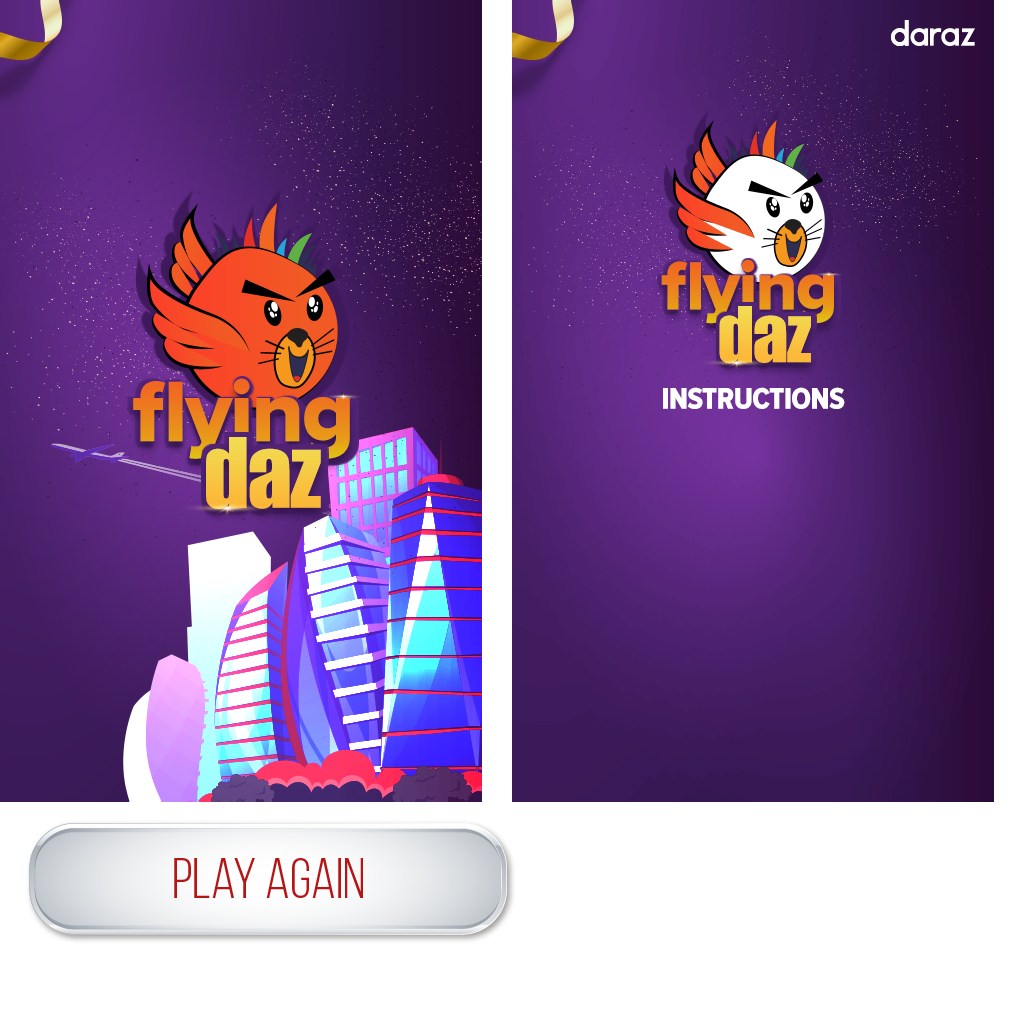
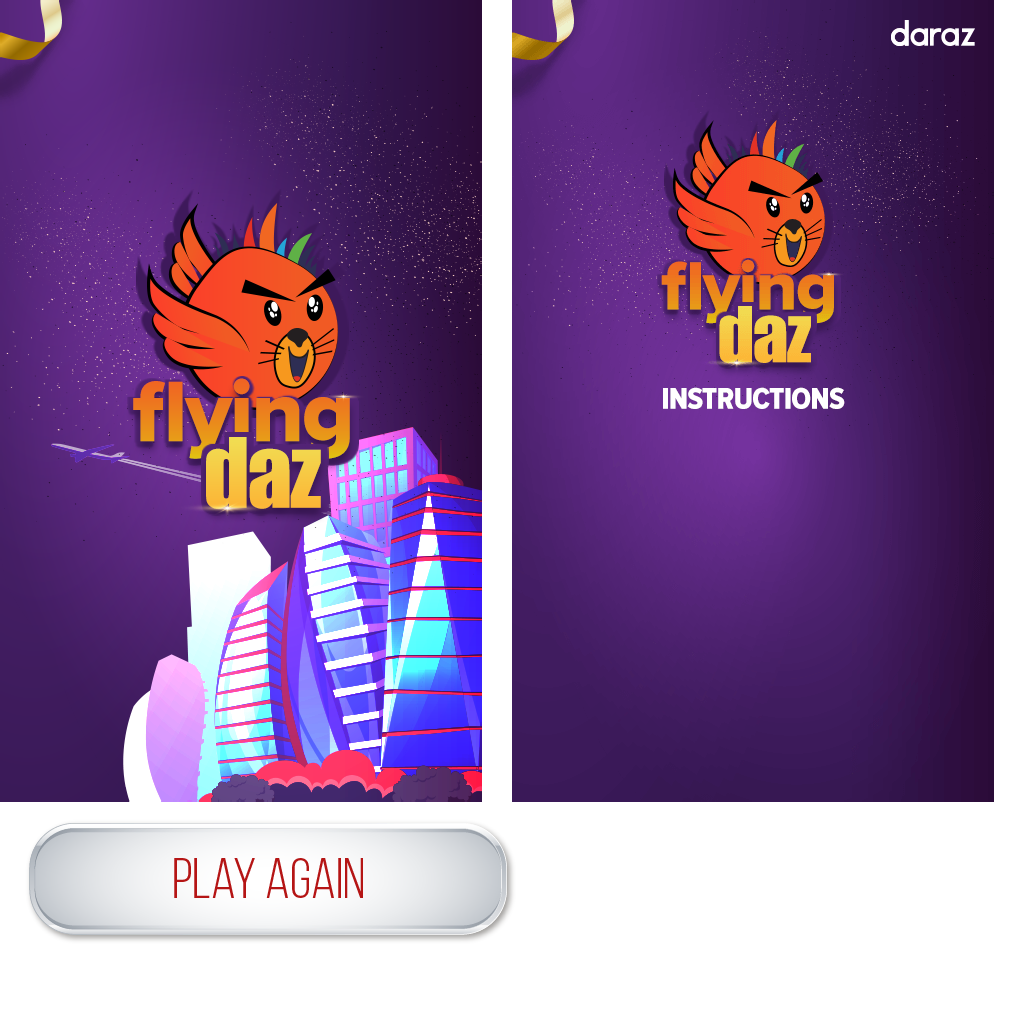
final2

Changed region(s): [[0.6875, 0.125, 0.8125, 0.2812]]

diff --git a/flying-daz/data.js b/flying-daz/data.js
@@ -1,1 +1,1 @@
-{"project":["Flying Daz","Menu",[[0,false,true,true,true,true,true,true,true,false],[1,false,true,true,true,false,false,false,false,false],[3,true,false,false,false,false,false,false,false,false],[4,false,true,true,true,true,true,true,true,true],[5,false,true,true,true,true,true,true,true,false],[7,true,false,false,false,false,false,false,false,false],[8,true,false,false,false,false,false,false,false,false],[9,true,false,false,false,false,false,false,false,false],[10,false,true,true,true,false,false,false,false,false]],[["Sprite",0,false,[],0,0,null,[["Default",5,false,1,0,false,1393132005821332,[["images/shared-0-sheet1.png",579598,513,1,480,800,1,0.5,0.5,[],[-0.5,-0.5,0,-0.5,0.4979166666666667,-0.5,0.4979166666666667,0,0.4979166666666667,0.49875,0,0.49875,-0.5,0.49875,-0.5,0],0]]]],[],false,true,4964123340204649,[],null],["Sprite2",0,false,[],0,0,null,[["Default",5,false,1,0,false,5423385207864809,[["images/shared-0-sheet0.png",493578,897,961,108,61,1,0.5,0.508197,[],[-0.4444444,-0.40983630000000004,0,-0.4754101,0.44444399999999995,-0.40983630000000004,0.48148100000000005,-0.01639400000000002,0.453704,0.409836,0,0.47541,-0.4537037,0.409836,-0.4814815,-0.01639400000000002],0]]]],[],false,false,561258163338029,[],null],["Button2",1,false,[],0,0,null,null,[],false,false,2574843507174612,[],null],["Sprite3",0,false,[],0,0,null,[["Default",5,false,1,0,false,8356031828295757,[["images/shared-0-sheet0.png",493578,679,803,115,111,1,0.504348,0.504505,[],[-0.191305,-0.18018099999999998,-0.008696000000000037,-0.38738799999999995,0.017390999999999934,-0.009009999999999962,0.017390999999999934,-0.009009999999999962,0.37391299999999994,0.36936900000000006,-0.008696000000000037,0.495495,-0.38260900000000003,0.36936900000000006,-0.06956500000000004,-0.009009999999999962],0]]]],[],false,false,9533404973379886,[],null],["Sprite4",0,false,[],0,0,null,[["Default",5,false,1,0,false,6430424900520584,[["images/shared-0-sheet0.png",493578,1,1,480,800,1,0.5,0.500978,[],[-0.5,-0.500978,0,-0.500978,0.4979166666666667,-0.500978,0.4979166666666667,-0.0009780000000000344,0.4979166666666667,0.497772,0,0.497772,-0.5,0.497772,-0.5,-0.0009780000000000344],0]]]],[],false,false,576234191087211,[],null],["Sprite5",0,false,[],1,0,null,[["Default",10,false,1,0,false,5552198826423713,[["images/shared-0-sheet0.png",493578,796,803,103,72,1,0.5,0.5,[],[-0.21383512244897962,-0.3616071428571428,0.08928571428571452,-0.3511904761904762,0.2699575714285716,-0.04910714285714307,0.2728086530612246,0.27157738095238126,0.1195978979591843,0.48214252380952394,-0.08418367346938738,0.49627976190476186,-0.3568427959183674,0.11383895238095276,-0.346938775510204,-0.17485119047619024],0],["images/shared-0-sheet0.png",493578,901,803,103,72,1,0.5,0.5,[],[-0.16791675510204096,-0.19791666666666674,0.09948979591836726,-0.4107142857142857,0.25720246938775515,-0.2723214285714285,0.31362497959183666,0.141369047619048,0.25480197959183737,0.37797585714285675,0.04336734693877475,0.5,-0.19867953061224491,0.34821395238095243,-0.34183673469387754,-0.01860119047619041],0],["images/shared-0-sheet0.png",493578,641,939,103,72,1,0.5,0.5,[],[-0.12454940816326543,-0.3132440476190475,0.03826530612244905,-0.40327380952380953,0.2674065510204082,-0.1830357142857144,0.2753596734693883,0.30877976190476253,0.13235300000000083,0.4784222857142858,-0.19185902516346326,0.4107142857142859,-0.37484996938775506,0.1450896190476193,-0.2702581326530612,-0.07068452380952356],0]]]],[["Platform",2,1593079543931459]],false,false,8880592809369787,[],null],["Mouse",3,false,[],0,0,null,null,[],false,false,4336291366746725,[],null,[]],["Sprite6",0,false,[6617839752655299],0,0,null,[["Default",5,false,1,0,false,1423263038755727,[["images/shared-0-sheet2.png",116318,543,1,104,640,1,0.508772,0.501538,[],[-0.508772,-0.501538,0.491228,-0.501538,0.44509146153846146,0.49787275,-0.017544000000000004,0.49846199999999996,-0.4571103923076923,0.492842625],0]]]],[],false,false,7213654666255091,[],null],["Sprite7",0,false,[],0,0,null,[["Default",5,false,1,0,false,2610034895066063,[["images/shared-0-sheet2.png",116318,649,1,104,640,1,0.5,0.501538,[],[-0.47081045384615383,-0.501538,0.45879092307692304,-0.501538,0.5,0.49846199999999996,-0.5,0.49621424999999997],0]]]],[],false,false,6358373644877836,[],null],["TiledBackground",4,false,[],0,0,["images/tiledbackground-sheet0.png",4223,0,0,0,337,17],null,[],false,false,8862384049867816,[],null],["TiledBackground2",4,false,[],0,0,["images/tiledbackground2-sheet0.png",4223,0,0,0,337,17],null,[],false,false,2397778750218094,[],null],["TiledBackground3",4,false,[],0,0,["images/tiledbackground3-sheet0.png",192,0,0,0,56,28],null,[],false,false,8923451967422283,[],null],["TiledBackground4",4,false,[],0,0,["images/tiledbackground4-sheet0.png",430,0,0,0,41,19],null,[],false,false,2934423813765071,[],null],["Text",5,false,[],0,0,null,null,[],false,false,5606101963679141,[],null],["Sprite8",0,false,[],0,0,null,[["Default",5,false,1,0,false,7712839185583907,[["images/shared-0-sheet2.png",116318,257,769,250,250,1,0.5,0.5,[],[],0]]]],[],false,false,5867399459174119,[],null],["Sprite9",0,false,[],1,0,null,[["Default",5,false,1,0,false,632513710534152,[["images/shared-0-sheet0.png",493578,543,803,134,134,1,0.5,0.503311,[],[-0.36666699999999997,-0.344371,0,-0.49668847999999993,0.37222200000000005,-0.35099299999999994,0.488889,-0.006621999999999961,0.3337481492537311,0.3343999402985074,0.004664179104477584,0.44801426865671645,-0.349523328358209,0.305667328358209,-0.49444444,-0.006621999999999961],0]]]],[["DragDrop",6,559007665408358]],false,true,336497991114589,[],null],["Touch",7,false,[],0,0,null,null,[],false,false,812771115847554,[],null,[true]],["Browser",8,false,[],0,0,null,null,[],false,false,968786528415499,[],null,[]],["Sprite10",0,false,[],0,0,null,[["Animation 1",5,false,1,0,false,998012637433276,[["images/shared-0-sheet2.png",116318,755,513,256,256,1,0.5,0.5,[],[-0.03125,-0.03125,0,-0.046875,0.046875,-0.05078125,0.4296875,0,0.015625,0.015625,0,0.1328125,-0.14453125,0.140625,-0.4453125,0],0]]]],[],false,false,596976730625195,[],null],["AJAX",9,false,[],0,0,null,null,[],false,false,525835348000193,[],null,[]],["Sprite11",0,false,[],0,0,null,[["Animation 1",5,false,1,0,false,259953315795058,[["images/shared-0-sheet0.png",493578,513,1,480,800,1,0.5,0.5,[],[-0.5,-0.5,0,-0.5,0.49750000000000005,-0.5,0.49750000000000005,0,0.49750000000000005,0.498,0,0.498,-0.5,0.498,-0.5,0],0]]]],[],false,false,387558426248170,[],null],["NameInput",10,false,[],0,0,null,null,[],false,false,889300060393533,[],null],["EmailInput",10,false,[],0,0,null,null,[],false,false,800542948052933,[],null],["PhoneInput",10,false,[],0,0,null,null,[],false,false,139598997962273,[],null],["NameText",5,false,[],0,0,null,null,[],false,false,335254482292807,[],null],["EmailText",5,false,[],0,0,null,null,[],false,false,346951033053218,[],null],["Text2",5,false,[],0,0,null,null,[],false,false,646911176194777,[],null],["Sprite12",0,false,[],0,0,null,[["Animation 1",5,false,1,0,false,591142330811460,[["images/shared-0-sheet0.png",493578,1,803,540,158,1,0.5,0.5,[],[-0.4073182779369861,-0.34398155758915255,-0.006944444444444586,-0.34968354430379744,0.40504037360896816,-0.33736780097539587,0.4352220956719819,0.05537974683544311,0.3859058156639268,0.3355084905717818,-0.01892921146953408,0.32007157165385014,-0.4054701596574163,0.3288947339580254,-0.45370370370370366,-0.06329113924050628],0]]]],[],false,false,367115732379633,[],null],["Confirmation",5,false,[],0,0,null,null,[],false,false,968940184656449,[],null],["Sprite13",0,false,[],0,0,null,[["Animation 1",5,false,1,0,false,904992826225042,[["images/shared-0-sheet1.png",579598,1,803,540,158,1,0.5,0.5,[],[-0.40880451457374534,-0.36416139240506323,0,-0.375,0.3883478522901602,-0.37739319620253164,0.4394039009423626,0,0.4037776682007451,0.31787974683544307,-0.004629629629629595,0.3491297468354432,-0.3968469208853824,0.3343354430379749,-0.4535598838483454,0.04746835443038],0]]]],[],false,false,505255774339353,[],null],["Sprite14",0,false,[],0,0,null,[["Animation 1",5,false,1,0,false,405608823074264,[["images/shared-0-sheet2.png",116318,1,513,540,158,1,0.5,0.5,[],[-0.41439636752136755,-0.3904449272624221,-0.009259259259259245,-0.38964985200579383,0.40495904558404594,-0.37676333522262107,0.44444444444444464,0,0.3865295584045586,0.3394499023868003,-0.02083333333333337,0.3369623401977454,-0.4029113247863248,0.33641129794067637,-0.46456552706552706,-0.015822784810126556],0]]]],[],false,false,547625119326240,[],null],["Sprite15",0,false,[],0,0,null,[["Animation 1",5,false,1,0,false,518076908544604,[["images/shared-0-sheet1.png",579598,1,1,480,800,1,0.5,0.5,[],[-0.5,-0.5,0,-0.5,0.4979166666666667,-0.5,0.4979166666666667,0,0.4979166666666667,0.49875,0,0.49875,-0.5,0.49875,-0.5,0],0]]]],[],false,false,921497973235513,[],null],["Sprite16",0,false,[],0,0,null,[["Animation 1",5,false,1,0,false,781584850527997,[["images/shared-0-sheet0.png",493578,769,916,242,43,1,0.5,0.5,[],[-0.49173553719008267,-0.4534883720930233,0,-0.4069767441860465,0.487603305785124,-0.4534883720930233,0.49586776859504134,0,0.487603305785124,0.43023255813953487,0,0.4534883720930233,-0.49586776859504134,0.4534883720930233,-0.5,0],0]]]],[],false,true,642240991751007,[],null],["Instructions",5,false,[],0,0,null,null,[],false,true,807218672933255,[],null],["Display",5,false,[],0,0,null,null,[],false,false,855406720276929,[],null],["Button",1,false,[],0,0,null,null,[],false,false,792601355615941,[],null]],[],[["Menu",480,800,false,"Event sheet 1",813435304774142,[["Layer 0",0,4928235318697103,true,[255,255,255],false,1,1,1,false,false,1,0,0,[[[240,401,0,478,800,0,0,1,0.5,0.5,0,0,[]],0,0,[],[],[true,"Default",0,true]],[[244,667,0,134,134,0,0,1,0.5,0.503311,0,0,[]],15,11,[],[[0,true]],[true,"Default",0,true]],[[248,554,0,242,43,0,0,1,0.5,0.5,0,0,[]],32,2,[],[],[true,"Animation 1",0,true]],[[61,402,0,372,116,0,0,1,0,0,0,0,[]],33,14,[],[],["1. Make Daz jump by tapping on the screen.\n2. Fly through the pillars and get the highest score.\n3. Be the 1st scorer and win a Samsung 40inch TV.\n4. Be the 2nd scorer and win a Redmi Note 6.",false,"Arial",12,0,false,false,[1,1,1],0,1,0,true,0]]],[]]],[],[]],["Game",480,800,false,"Event sheet 2",7054034641972203,[["Layer 0",0,360173619558835,true,[255,255,255],false,1,1,1,false,false,1,0,0,[[[239.5,400,0,488,797,0,0,1,0.5,0.500978,0,0,[]],4,3,[],[],[true,"Default",0,true]],[[112,340,0,83.56229072527051,59.21386573416339,0,0,1,0.5,0.5,0,0,[]],5,4,[],[[0,1500,1500,650,1500,1000,false,0,true,true]],[true,"Default",0,true]],[[-91,765,0,639,32,0,0,1,0,0,0,0,[]],11,9,[],[],[true,0,0,0,1,1,0]],[[566.999938965,741.895385742,0,74,680,0,0,1,0.508772,0.501538,0,0,[]],7,6,[[0]],[],[true,"Default",0,true]],[[-107,1,0,727,17,0,0,1,0,0,0,0,[]],12,8,[],[],[true,0,0,0,1,1,0]],[[-59,10.750762939,0,73,477,0,0,1,0.5,0.501538,0,0,[]],8,7,[],[],[true,"Default",0,true]]],[]],["Layer 1",1,824997212790849,true,[255,255,255],true,1,1,1,false,false,1,0,0,[[[25,41,0,52,66,0,0,1,0,0,0,0,[]],13,10,[],[],["0",false,"Arial",25.799999999999997,0,false,false,[1,1,0.8],0,0,0,true,0]]],[]]],[],[]],["Final",480,800,false,"Event sheet 3",620830751206250,[["Layer 0",0,395103375760716,true,[255,255,255],false,1,1,1,false,false,1,0,0,[[[240.5,399.5,0,488,801,0,0,1,0.5,0.5,0,0,[]],20,16,[],[],[true,"Animation 1",0,true]],[[157,122,0,257,32,0,0,1,0,0,0,0,[]],21,17,[],[],["","","",true,true,false,false,0,true,""]],[[157,178,0,257,32,0,0,1,0,0,0,0,[]],22,18,[],[],["","","",true,true,false,false,0,true,""]],[[157,232,0,257,32,0,0,1,0,0,0,0,[]],23,19,[],[],["","","",true,true,false,false,0,true,""]],[[74,127,0,61,30,0,0,1,0,0,0,0,[]],24,20,[],[],["NAME",false,"Arial",15,0,false,false,[1,1,1],0,1,0,true,0]],[[77,182,0,68,30,0,0,1,0,0,0,0,[]],25,21,[],[],["EMAIL",false,"Arial",15,0,false,false,[1,1,1],0,1,0,true,0]],[[66,236,0,75,30,0,0,1,0,0,0,0,[]],26,22,[],[],["PHONE",false,"Arial",15,0,false,false,[1,1,1],0,1,0,true,0]],[[277,874,0,213,57,0,0,1,0.5,0.5,0,0,[]],27,23,[],[],[false,"Animation 1",0,true]],[[105,324,0,282,83,0,0,1,0,0,0,0,[]],28,24,[],[],["Score has been Added!!\nThank you for your Participation!\nStay Tuned with Daraz!\n",false,"Arial",12,0,false,false,[1,1,1],1,1,0,false,0]],[[137,501,0,213,57,0,0,1,0.5,0.5,0,0,[]],29,25,[],[],[true,"Animation 1",0,true]],[[370,501,0,213,57,0,0,1,0.5,0.5,0,0,[]],30,26,[],[],[true,"Animation 1",0,true]],[[141,54,0,238,30,0,0,1,0,0,0,0,[]],34,28,[],[],["Submit Your Score",false,"Arial",18.7,0,false,false,[1,1,1],0,0,0,true,0]]],[]]],[],[]],["Splash",480,800,false,"Event sheet 4",334263116829157,[["Layer 0",0,426875695464246,true,[255,255,255],false,1,1,1,false,false,1,0,0,[[[241,400,0,480,800,0,0,1,0.5,0.5,0,0,[]],31,27,[],[],[true,"Animation 1",0,true]]],[]]],[],[]]],[["Event sheet 1",[[0,null,false,null,9443870342977488,[[16,11,null,1,false,false,false,7831443225202787,null,[[4,15]]]],[[-1,12,null,7052091377467977,null,[[6,"Game"]]],[-1,13,null,199173049232889,null,[[11,"score"],[7,[3,[1,1]]]]]]]]],["Event sheet 2",[[1,"score",0,-1,false,false,5445505578776546,false],[1,"SECONDSPERTICK",0,1,false,true,4168613484299564,false],[1,"s",1,"",false,false,103965146235660,false],[1,"web_app_url",1,"https://script.google.com/macros/s/AKfycbz928psWAZfOM-7AKDqhtY8HTPeIC8d6s7RaVA116KtJP3ytqF1/exec",false,false,739007772900223,false],[0,null,false,null,9738095022888128,[[16,14,null,1,false,false,false,8826641917803341,null]],[[5,15,"Platform",2840984979323257,null,[[0,[5,[20,5,16,false,null],[1,850]]]]],[5,17,null,2948151137742414,null,[[3,1]]],[5,18,null,5093259802344395,null,[[0,[1,320]]]]]],[0,null,false,null,1202615859203067,[[5,19,null,0,false,false,true,6241361961390549,null,[[4,7]]]],[[-1,12,null,405722869933906,null,[[6,"Final"]]]]],[0,null,false,null,1243265082953658,[[5,19,null,0,false,false,true,6680394977637079,null,[[4,8]]]],[[-1,12,null,581731913117290,null,[[6,"Final"]]]]],[0,null,false,null,9391386778907876,[[5,19,null,0,false,false,true,2125266085438146,null,[[4,11]]]],[[-1,12,null,283323623451258,null,[[6,"Final"]]]]],[0,null,false,null,8252958596625004,[[5,20,null,0,false,false,false,1346436896633493,null]],[[-1,12,null,198607994406590,null,[[6,"Final"]]]]],[0,null,false,null,9154889208580540,[[11,21,null,0,false,false,false,4741263242219376,null,[[8,3],[0,[3,[1,100]]]]]],[[11,22,null,1279449584451248,null,[[0,[1,0]]]]]],[0,null,false,null,8225295766461671,[[5,19,null,0,false,false,true,1658206846094863,null,[[4,12]]]],[[-1,12,null,152483321620022,null,[[6,"Final"]]]]],[0,null,false,null,6712032144356998,[[-1,23,null,0,false,false,false,1281422020036334,null]],[[12,22,null,8955708555932225,null,[[0,[5,[20,12,24,false,null],[1,5]]]]],[11,22,null,6515409483825707,null,[[0,[5,[20,11,24,false,null],[1,5]]]]],[8,25,null,3067140511304611,null,[[0,[5,[20,8,26,false,null],[1,5]]]]],[7,25,null,644147347656629,null,[[0,[5,[20,7,26,false,null],[1,5]]]]]]],[0,null,false,null,9900658006043172,[[12,21,null,0,false,false,false,9483081392905172,null,[[8,3],[0,[3,[1,100]]]]]],[[12,22,null,3468501258433082,null,[[0,[1,0]]]]]],[0,null,false,null,4487159994830935,[[-1,27,null,0,false,false,false,264969624309235,null,[[0,[23,"SECONDSPERTICK"]]]]],[[-1,28,null,336797798963120,null,[[4,8],[5,[1,0]],[0,[1,500]],[0,[19,29,[[1,50],[3,[1,150]]]]]]],[-1,28,null,446576431006347,null,[[4,7],[5,[1,0]],[0,[1,500]],[0,[4,[20,8,16,false,null],[1,750]]]]],[7,30,null,8620893255087995,null,[[10,0],[3,0]]]]],[0,null,false,null,3501621113364987,[[5,31,null,0,false,false,false,973402086689707,null,[[0,[1,1]],[0,[1,360]]]]],[[5,18,null,1321872969593035,null,[[0,[4,[20,5,32,false,null],[1,1]]]]]]],[0,null,false,null,2219961052850856,[[-1,33,null,1,false,false,false,9300582250180858,null]],[[13,34,null,2180209574785663,null,[[7,[1,0]]]]]],[0,null,false,null,3034903989539794,[[7,20,null,0,false,false,false,8329733398121777,null]],[[7,35,null,9126346962036340,null]]],[0,null,false,null,8210638893697663,[[7,36,null,1,false,false,false,5113379428055256,null]],[[-1,37,null,5716393016293131,null,[[11,"score"],[7,[1,1]]]],[13,34,null,8822476034886771,null,[[7,[23,"score"]]]],[7,30,null,2683831327960307,null,[[10,0],[3,1]]]]],[0,null,true,null,292316990547488,[[5,19,null,0,false,false,true,309956573817900,null,[[4,7]]],[5,19,null,0,false,false,true,906194607185260,null,[[4,8]]],[5,19,null,0,false,false,true,544866959185864,null,[[4,11]]],[5,19,null,0,false,false,true,484829367294420,null,[[4,12]]],[5,20,null,0,false,false,false,309688790753529,null]],[]]]],["Event sheet 3",[[0,null,false,null,953514335274900,[[16,11,null,1,false,false,false,675258870164215,null,[[4,27]]]],[[-1,13,null,654477517929274,null,[[11,"s"],[7,[10,[10,[23,"web_app_url"],[2,"?name="]],[19,38,[[20,21,39,true,null]]]]]]],[-1,13,null,376145357999251,null,[[11,"s"],[7,[10,[10,[23,"s"],[2,"&score="]],[23,"score"]]]]],[-1,13,null,996337523594330,null,[[11,"s"],[7,[10,[10,[23,"s"],[2,"&email="]],[20,22,39,true,null]]]]],[-1,13,null,411130622235495,null,[[11,"s"],[7,[10,[10,[23,"s"],[2,"&phone="]],[20,23,39,true,null]]]]],[19,40,null,103897013309333,null,[[1,[2,"senddata"]],[1,[23,"s"]],[1,[2,""]],[1,[2,"GET"]]]],[28,41,null,401195694014010,null,[[3,1]]],[27,35,null,866812808831417,null]]],[0,null,false,null,230036816865590,[[16,11,null,1,false,false,false,742385287071374,null,[[4,30]]]],[[17,42,null,754398245008242,null,[[1,[2,"https://www.daraz.com.bd/wow/i/bd/landingpage/exciting-offers-daily?hybrid=1"]],[3,0]]]]],[0,null,false,null,999045428445811,[[16,11,null,1,false,false,false,752436486698801,null,[[4,29]]]],[[-1,12,null,306198402426133,null,[[6,"Game"]]],[-1,13,null,348969924502970,null,[[11,"score"],[7,[3,[1,1]]]]]]],[0,null,false,null,112599420946176,[[23,43,null,1,false,false,false,860634210077745,null]],[[27,44,null,573393313618559,null,[[3,1]]],[27,45,null,956400478037635,null,[[0,[1,254]],[0,[1,598]]]]]]]],["Event sheet 4",[[0,null,false,null,301873428723936,[[-1,33,null,1,false,false,false,921391437527137,null]],[[-1,46,null,300903338090120,null,[[0,[1,0.5]]]],[-1,12,null,660406916845328,null,[[6,"Menu"]]]]]]]],[],"media/",false,480,800,4,true,true,true,"1.0.0.0",true,true,1,0,30,false,true,1,true,false,[],"icons/",[],true,"u8se8qxh4gob","fonts/",[],"high-performance"]}
+{"project":["Flying Daz","Menu",[[0,false,true,true,true,true,true,true,true,false],[1,false,true,true,true,false,false,false,false,false],[3,true,false,false,false,false,false,false,false,false],[4,false,true,true,true,true,true,true,true,true],[5,false,true,true,true,true,true,true,true,false],[7,true,false,false,false,false,false,false,false,false],[8,true,false,false,false,false,false,false,false,false],[9,true,false,false,false,false,false,false,false,false],[10,false,true,true,true,false,false,false,false,false]],[["Sprite",0,false,[],0,0,null,[["Default",5,false,1,0,false,1393132005821332,[["images/shared-0-sheet1.png",584793,513,1,480,800,1,0.5,0.5,[],[-0.5,-0.5,0,-0.5,0.4979166666666667,-0.5,0.4979166666666667,0,0.4979166666666667,0.49875,0,0.49875,-0.5,0.49875,-0.5,0],0]]]],[],false,true,4964123340204649,[],null],["Sprite2",0,false,[],0,0,null,[["Default",5,false,1,0,false,5423385207864809,[["images/shared-0-sheet0.png",493578,897,961,108,61,1,0.5,0.508197,[],[-0.4444444,-0.40983630000000004,0,-0.4754101,0.44444399999999995,-0.40983630000000004,0.48148100000000005,-0.01639400000000002,0.453704,0.409836,0,0.47541,-0.4537037,0.409836,-0.4814815,-0.01639400000000002],0]]]],[],false,false,561258163338029,[],null],["Button2",1,false,[],0,0,null,null,[],false,false,2574843507174612,[],null],["Sprite3",0,false,[],0,0,null,[["Default",5,false,1,0,false,8356031828295757,[["images/shared-0-sheet0.png",493578,679,803,115,111,1,0.504348,0.504505,[],[-0.191305,-0.18018099999999998,-0.008696000000000037,-0.38738799999999995,0.017390999999999934,-0.009009999999999962,0.017390999999999934,-0.009009999999999962,0.37391299999999994,0.36936900000000006,-0.008696000000000037,0.495495,-0.38260900000000003,0.36936900000000006,-0.06956500000000004,-0.009009999999999962],0]]]],[],false,false,9533404973379886,[],null],["Sprite4",0,false,[],0,0,null,[["Default",5,false,1,0,false,6430424900520584,[["images/shared-0-sheet0.png",493578,1,1,480,800,1,0.5,0.500978,[],[-0.5,-0.500978,0,-0.500978,0.4979166666666667,-0.500978,0.4979166666666667,-0.0009780000000000344,0.4979166666666667,0.497772,0,0.497772,-0.5,0.497772,-0.5,-0.0009780000000000344],0]]]],[],false,false,576234191087211,[],null],["Sprite5",0,false,[],1,0,null,[["Default",10,false,1,0,false,5552198826423713,[["images/shared-0-sheet0.png",493578,796,803,103,72,1,0.5,0.5,[],[-0.21383512244897962,-0.3616071428571428,0.08928571428571452,-0.3511904761904762,0.2699575714285716,-0.04910714285714307,0.2728086530612246,0.27157738095238126,0.1195978979591843,0.48214252380952394,-0.08418367346938738,0.49627976190476186,-0.3568427959183674,0.11383895238095276,-0.346938775510204,-0.17485119047619024],0],["images/shared-0-sheet0.png",493578,901,803,103,72,1,0.5,0.5,[],[-0.16791675510204096,-0.19791666666666674,0.09948979591836726,-0.4107142857142857,0.25720246938775515,-0.2723214285714285,0.31362497959183666,0.141369047619048,0.25480197959183737,0.37797585714285675,0.04336734693877475,0.5,-0.19867953061224491,0.34821395238095243,-0.34183673469387754,-0.01860119047619041],0],["images/shared-0-sheet0.png",493578,641,939,103,72,1,0.5,0.5,[],[-0.12454940816326543,-0.3132440476190475,0.03826530612244905,-0.40327380952380953,0.2674065510204082,-0.1830357142857144,0.2753596734693883,0.30877976190476253,0.13235300000000083,0.4784222857142858,-0.19185902516346326,0.4107142857142859,-0.37484996938775506,0.1450896190476193,-0.2702581326530612,-0.07068452380952356],0]]]],[["Platform",2,1593079543931459]],false,false,8880592809369787,[],null],["Mouse",3,false,[],0,0,null,null,[],false,false,4336291366746725,[],null,[]],["Sprite6",0,false,[6617839752655299],0,0,null,[["Default",5,false,1,0,false,1423263038755727,[["images/shared-0-sheet2.png",116318,543,1,104,640,1,0.508772,0.501538,[],[-0.508772,-0.501538,0.491228,-0.501538,0.44509146153846146,0.49787275,-0.017544000000000004,0.49846199999999996,-0.4571103923076923,0.492842625],0]]]],[],false,false,7213654666255091,[],null],["Sprite7",0,false,[],0,0,null,[["Default",5,false,1,0,false,2610034895066063,[["images/shared-0-sheet2.png",116318,649,1,104,640,1,0.5,0.501538,[],[-0.47081045384615383,-0.501538,0.45879092307692304,-0.501538,0.5,0.49846199999999996,-0.5,0.49621424999999997],0]]]],[],false,false,6358373644877836,[],null],["TiledBackground",4,false,[],0,0,["images/tiledbackground-sheet0.png",4223,0,0,0,337,17],null,[],false,false,8862384049867816,[],null],["TiledBackground2",4,false,[],0,0,["images/tiledbackground2-sheet0.png",4223,0,0,0,337,17],null,[],false,false,2397778750218094,[],null],["TiledBackground3",4,false,[],0,0,["images/tiledbackground3-sheet0.png",192,0,0,0,56,28],null,[],false,false,8923451967422283,[],null],["TiledBackground4",4,false,[],0,0,["images/tiledbackground4-sheet0.png",430,0,0,0,41,19],null,[],false,false,2934423813765071,[],null],["Text",5,false,[],0,0,null,null,[],false,false,5606101963679141,[],null],["Sprite8",0,false,[],0,0,null,[["Default",5,false,1,0,false,7712839185583907,[["images/shared-0-sheet2.png",116318,257,769,250,250,1,0.5,0.5,[],[],0]]]],[],false,false,5867399459174119,[],null],["Sprite9",0,false,[],1,0,null,[["Default",5,false,1,0,false,632513710534152,[["images/shared-0-sheet0.png",493578,543,803,134,134,1,0.5,0.503311,[],[-0.36666699999999997,-0.344371,0,-0.49668847999999993,0.37222200000000005,-0.35099299999999994,0.488889,-0.006621999999999961,0.3337481492537311,0.3343999402985074,0.004664179104477584,0.44801426865671645,-0.349523328358209,0.305667328358209,-0.49444444,-0.006621999999999961],0]]]],[["DragDrop",6,559007665408358]],false,true,336497991114589,[],null],["Touch",7,false,[],0,0,null,null,[],false,false,812771115847554,[],null,[true]],["Browser",8,false,[],0,0,null,null,[],false,false,968786528415499,[],null,[]],["Sprite10",0,false,[],0,0,null,[["Animation 1",5,false,1,0,false,998012637433276,[["images/shared-0-sheet2.png",116318,755,513,256,256,1,0.5,0.5,[],[-0.03125,-0.03125,0,-0.046875,0.046875,-0.05078125,0.4296875,0,0.015625,0.015625,0,0.1328125,-0.14453125,0.140625,-0.4453125,0],0]]]],[],false,false,596976730625195,[],null],["AJAX",9,false,[],0,0,null,null,[],false,false,525835348000193,[],null,[]],["Sprite11",0,false,[],0,0,null,[["Animation 1",5,false,1,0,false,259953315795058,[["images/shared-0-sheet0.png",493578,513,1,480,800,1,0.5,0.5,[],[-0.5,-0.5,0,-0.5,0.49750000000000005,-0.5,0.49750000000000005,0,0.49750000000000005,0.498,0,0.498,-0.5,0.498,-0.5,0],0]]]],[],false,false,387558426248170,[],null],["NameInput",10,false,[],0,0,null,null,[],false,false,889300060393533,[],null],["EmailInput",10,false,[],0,0,null,null,[],false,false,800542948052933,[],null],["PhoneInput",10,false,[],0,0,null,null,[],false,false,139598997962273,[],null],["NameText",5,false,[],0,0,null,null,[],false,false,335254482292807,[],null],["EmailText",5,false,[],0,0,null,null,[],false,false,346951033053218,[],null],["Text2",5,false,[],0,0,null,null,[],false,false,646911176194777,[],null],["Sprite12",0,false,[],0,0,null,[["Animation 1",5,false,1,0,false,591142330811460,[["images/shared-0-sheet0.png",493578,1,803,540,158,1,0.5,0.5,[],[-0.4073182779369861,-0.34398155758915255,-0.006944444444444586,-0.34968354430379744,0.40504037360896816,-0.33736780097539587,0.4352220956719819,0.05537974683544311,0.3859058156639268,0.3355084905717818,-0.01892921146953408,0.32007157165385014,-0.4054701596574163,0.3288947339580254,-0.45370370370370366,-0.06329113924050628],0]]]],[],false,false,367115732379633,[],null],["Confirmation",5,false,[],0,0,null,null,[],false,false,968940184656449,[],null],["Sprite13",0,false,[],0,0,null,[["Animation 1",5,false,1,0,false,904992826225042,[["images/shared-0-sheet1.png",584793,1,803,540,158,1,0.5,0.5,[],[-0.40880451457374534,-0.36416139240506323,0,-0.375,0.3883478522901602,-0.37739319620253164,0.4394039009423626,0,0.4037776682007451,0.31787974683544307,-0.004629629629629595,0.3491297468354432,-0.3968469208853824,0.3343354430379749,-0.4535598838483454,0.04746835443038],0]]]],[],false,false,505255774339353,[],null],["Sprite14",0,false,[],0,0,null,[["Animation 1",5,false,1,0,false,405608823074264,[["images/shared-0-sheet2.png",116318,1,513,540,158,1,0.5,0.5,[],[-0.41439636752136755,-0.3904449272624221,-0.009259259259259245,-0.38964985200579383,0.40495904558404594,-0.37676333522262107,0.44444444444444464,0,0.3865295584045586,0.3394499023868003,-0.02083333333333337,0.3369623401977454,-0.4029113247863248,0.33641129794067637,-0.46456552706552706,-0.015822784810126556],0]]]],[],false,false,547625119326240,[],null],["Sprite15",0,false,[],0,0,null,[["Animation 1",5,false,1,0,false,518076908544604,[["images/shared-0-sheet1.png",584793,1,1,480,800,1,0.5,0.5,[],[-0.5,-0.5,0,-0.5,0.4979166666666667,-0.5,0.4979166666666667,0,0.4979166666666667,0.49875,0,0.49875,-0.5,0.49875,-0.5,0],0]]]],[],false,false,921497973235513,[],null],["Sprite16",0,false,[],0,0,null,[["Animation 1",5,false,1,0,false,781584850527997,[["images/shared-0-sheet0.png",493578,769,916,242,43,1,0.5,0.5,[],[-0.49173553719008267,-0.4534883720930233,0,-0.4069767441860465,0.487603305785124,-0.4534883720930233,0.49586776859504134,0,0.487603305785124,0.43023255813953487,0,0.4534883720930233,-0.49586776859504134,0.4534883720930233,-0.5,0],0]]]],[],false,true,642240991751007,[],null],["Instructions",5,false,[],0,0,null,null,[],false,true,807218672933255,[],null],["Display",5,false,[],0,0,null,null,[],false,false,855406720276929,[],null]],[],[["Menu",480,800,false,"Event sheet 1",813435304774142,[["Layer 0",0,4928235318697103,true,[255,255,255],false,1,1,1,false,false,1,0,0,[[[240,401,0,478,800,0,0,1,0.5,0.5,0,0,[]],0,0,[],[],[true,"Default",0,true]],[[244,667,0,134,134,0,0,1,0.5,0.503311,0,0,[]],15,11,[],[[0,true]],[true,"Default",0,true]],[[248,554,0,242,43,0,0,1,0.5,0.5,0,0,[]],32,2,[],[],[true,"Animation 1",0,true]],[[61,402,0,372,116,0,0,1,0,0,0,0,[]],33,14,[],[],["1. Make Daz jump by tapping on the screen.\n2. Fly through the pillars and get the highest score.\n3. Be the 1st scorer and win a Samsung 40inch TV.\n4. Be the 2nd scorer and win a Redmi Note 6.",false,"Arial",12,0,false,false,[1,1,1],0,1,0,true,0]]],[]]],[],[]],["Game",480,800,false,"Event sheet 2",7054034641972203,[["Layer 0",0,360173619558835,true,[255,255,255],false,1,1,1,false,false,1,0,0,[[[239.5,400,0,488,797,0,0,1,0.5,0.500978,0,0,[]],4,3,[],[],[true,"Default",0,true]],[[112,340,0,83.56229072527051,59.21386573416339,0,0,1,0.5,0.5,0,0,[]],5,4,[],[[0,1500,1500,650,1500,1000,false,0,true,true]],[true,"Default",0,true]],[[-91,765,0,639,32,0,0,1,0,0,0,0,[]],11,9,[],[],[true,0,0,0,1,1,0]],[[566.999938965,741.895385742,0,74,680,0,0,1,0.508772,0.501538,0,0,[]],7,6,[[0]],[],[true,"Default",0,true]],[[-107,1,0,727,17,0,0,1,0,0,0,0,[]],12,8,[],[],[true,0,0,0,1,1,0]],[[-59,10.750762939,0,73,477,0,0,1,0.5,0.501538,0,0,[]],8,7,[],[],[true,"Default",0,true]],[[25,41,0,52,66,0,0,1,0,0,0,0,[]],13,10,[],[],["0",false,"Arial",25.799999999999997,0,false,false,[1,1,0.8],0,0,0,true,0]]],[]]],[],[]],["Final",480,800,false,"Event sheet 3",620830751206250,[["Layer 0",0,395103375760716,true,[255,255,255],false,1,1,1,false,false,1,0,0,[[[240.5,399.5,0,488,801,0,0,1,0.5,0.5,0,0,[]],20,16,[],[],[true,"Animation 1",0,true]],[[157,122,0,257,32,0,0,1,0,0,0,0,[]],21,17,[],[],["","","",true,true,false,false,0,true,""]],[[157,178,0,257,32,0,0,1,0,0,0,0,[]],22,18,[],[],["","","",true,true,false,false,0,true,""]],[[157,232,0,257,32,0,0,1,0,0,0,0,[]],23,19,[],[],["","","",true,true,false,false,0,true,""]],[[74,127,0,61,30,0,0,1,0,0,0,0,[]],24,20,[],[],["NAME",false,"Arial",15,0,false,false,[1,1,1],0,1,0,true,0]],[[77,182,0,68,30,0,0,1,0,0,0,0,[]],25,21,[],[],["EMAIL",false,"Arial",15,0,false,false,[1,1,1],0,1,0,true,0]],[[66,236,0,75,30,0,0,1,0,0,0,0,[]],26,22,[],[],["PHONE",false,"Arial",15,0,false,false,[1,1,1],0,1,0,true,0]],[[259,628,0,213,57,0,0,1,0.5,0.5,0,0,[]],27,23,[],[],[false,"Animation 1",0,true]],[[105,324,0,282,83,0,0,1,0,0,0,0,[]],28,24,[],[],["Score has been Added!!\nThank you for your Participation!\nStay Tuned with Daraz!\n",false,"Arial",12,0,false,false,[1,1,1],1,1,0,false,0]],[[258,508,0,213,57,0,0,1,0.5,0.5,0,0,[]],29,25,[],[],[true,"Animation 1",0,true]],[[258,568,0,213,57,0,0,1,0.5,0.5,0,0,[]],30,26,[],[],[true,"Animation 1",0,true]],[[141,54,0,238,30,0,0,1,0,0,0,0,[]],34,28,[],[],["Submit Your Score",false,"Arial",18.7,0,false,false,[1,1,1],0,0,0,true,0]]],[]]],[],[]],["Splash",480,800,false,"Event sheet 4",334263116829157,[["Layer 0",0,426875695464246,true,[255,255,255],false,1,1,1,false,false,1,0,0,[[[241,400,0,480,800,0,0,1,0.5,0.5,0,0,[]],31,27,[],[],[true,"Animation 1",0,true]]],[]]],[],[]]],[["Event sheet 1",[[0,null,false,null,9443870342977488,[[16,11,null,1,false,false,false,7831443225202787,null,[[4,15]]]],[[-1,12,null,7052091377467977,null,[[6,"Game"]]],[-1,13,null,199173049232889,null,[[11,"score"],[7,[3,[1,1]]]]]]]]],["Event sheet 2",[[1,"score",0,-1,false,false,5445505578776546,false],[1,"SECONDSPERTICK",0,1,false,true,4168613484299564,false],[1,"s",1,"",false,false,103965146235660,false],[1,"web_app_url",1,"https://script.google.com/macros/s/AKfycbz928psWAZfOM-7AKDqhtY8HTPeIC8d6s7RaVA116KtJP3ytqF1/exec",false,false,739007772900223,false],[0,null,false,null,9738095022888128,[[16,14,null,1,false,false,false,8826641917803341,null]],[[5,15,"Platform",2840984979323257,null,[[0,[5,[20,5,16,false,null],[1,850]]]]],[5,17,null,2948151137742414,null,[[3,1]]],[5,18,null,5093259802344395,null,[[0,[1,320]]]]]],[0,null,false,null,1202615859203067,[[5,19,null,0,false,false,true,6241361961390549,null,[[4,7]]]],[[-1,12,null,405722869933906,null,[[6,"Final"]]]]],[0,null,false,null,1243265082953658,[[5,19,null,0,false,false,true,6680394977637079,null,[[4,8]]]],[[-1,12,null,581731913117290,null,[[6,"Final"]]]]],[0,null,false,null,9391386778907876,[[5,19,null,0,false,false,true,2125266085438146,null,[[4,11]]]],[[-1,12,null,283323623451258,null,[[6,"Final"]]]]],[0,null,false,null,8252958596625004,[[5,20,null,0,false,false,false,1346436896633493,null]],[[-1,12,null,198607994406590,null,[[6,"Final"]]]]],[0,null,false,null,9154889208580540,[[11,21,null,0,false,false,false,4741263242219376,null,[[8,3],[0,[3,[1,100]]]]]],[[11,22,null,1279449584451248,null,[[0,[1,0]]]]]],[0,null,false,null,8225295766461671,[[5,19,null,0,false,false,true,1658206846094863,null,[[4,12]]]],[[-1,12,null,152483321620022,null,[[6,"Final"]]]]],[0,null,false,null,6712032144356998,[[-1,23,null,0,false,false,false,1281422020036334,null]],[[12,22,null,8955708555932225,null,[[0,[5,[20,12,24,false,null],[1,5]]]]],[11,22,null,6515409483825707,null,[[0,[5,[20,11,24,false,null],[1,5]]]]],[8,25,null,3067140511304611,null,[[0,[5,[20,8,26,false,null],[1,5]]]]],[7,25,null,644147347656629,null,[[0,[5,[20,7,26,false,null],[1,5]]]]]]],[0,null,false,null,9900658006043172,[[12,21,null,0,false,false,false,9483081392905172,null,[[8,3],[0,[3,[1,100]]]]]],[[12,22,null,3468501258433082,null,[[0,[1,0]]]]]],[0,null,false,null,4487159994830935,[[-1,27,null,0,false,false,false,264969624309235,null,[[0,[23,"SECONDSPERTICK"]]]]],[[-1,28,null,336797798963120,null,[[4,8],[5,[1,0]],[0,[1,500]],[0,[19,29,[[1,50],[3,[1,150]]]]]]],[-1,28,null,446576431006347,null,[[4,7],[5,[1,0]],[0,[1,500]],[0,[4,[20,8,16,false,null],[1,750]]]]],[7,30,null,8620893255087995,null,[[10,0],[3,0]]]]],[0,null,false,null,3501621113364987,[[5,31,null,0,false,false,false,973402086689707,null,[[0,[1,1]],[0,[1,360]]]]],[[5,18,null,1321872969593035,null,[[0,[4,[20,5,32,false,null],[1,1]]]]]]],[0,null,false,null,2219961052850856,[[-1,33,null,1,false,false,false,9300582250180858,null]],[[13,34,null,2180209574785663,null,[[7,[1,0]]]]]],[0,null,false,null,3034903989539794,[[7,20,null,0,false,false,false,8329733398121777,null]],[[7,35,null,9126346962036340,null]]],[0,null,false,null,8210638893697663,[[7,36,null,1,false,false,false,5113379428055256,null]],[[-1,37,null,5716393016293131,null,[[11,"score"],[7,[1,1]]]],[13,34,null,8822476034886771,null,[[7,[23,"score"]]]],[7,30,null,2683831327960307,null,[[10,0],[3,1]]]]],[0,null,true,null,292316990547488,[[5,19,null,0,false,false,true,309956573817900,null,[[4,7]]],[5,19,null,0,false,false,true,906194607185260,null,[[4,8]]],[5,19,null,0,false,false,true,544866959185864,null,[[4,11]]],[5,19,null,0,false,false,true,484829367294420,null,[[4,12]]],[5,20,null,0,false,false,false,309688790753529,null]],[]]]],["Event sheet 3",[[0,null,false,null,953514335274900,[[16,11,null,1,false,false,false,675258870164215,null,[[4,27]]]],[[-1,13,null,654477517929274,null,[[11,"s"],[7,[10,[10,[23,"web_app_url"],[2,"?name="]],[19,38,[[20,21,39,true,null]]]]]]],[-1,13,null,376145357999251,null,[[11,"s"],[7,[10,[10,[23,"s"],[2,"&score="]],[23,"score"]]]]],[-1,13,null,996337523594330,null,[[11,"s"],[7,[10,[10,[23,"s"],[2,"&email="]],[20,22,39,true,null]]]]],[-1,13,null,411130622235495,null,[[11,"s"],[7,[10,[10,[23,"s"],[2,"&phone="]],[20,23,39,true,null]]]]],[19,40,null,103897013309333,null,[[1,[2,"senddata"]],[1,[23,"s"]],[1,[2,""]],[1,[2,"GET"]]]],[28,41,null,401195694014010,null,[[3,1]]],[27,35,null,866812808831417,null]]],[0,null,false,null,230036816865590,[[16,11,null,1,false,false,false,742385287071374,null,[[4,30]]]],[[17,42,null,504254829916779,null,[[1,[2,"https://www.daraz.com.bd/"]],[3,0]]]]],[0,null,false,null,999045428445811,[[16,11,null,1,false,false,false,752436486698801,null,[[4,29]]]],[[-1,12,null,306198402426133,null,[[6,"Game"]]],[-1,13,null,348969924502970,null,[[11,"score"],[7,[3,[1,1]]]]]]],[0,null,false,null,112599420946176,[[23,43,null,1,false,false,false,860634210077745,null]],[[27,44,null,573393313618559,null,[[3,1]]]]]]],["Event sheet 4",[[0,null,false,null,301873428723936,[[-1,33,null,1,false,false,false,921391437527137,null]],[[-1,45,null,300903338090120,null,[[0,[1,0.5]]]],[-1,12,null,660406916845328,null,[[6,"Menu"]]]]]]]],[],"media/",false,480,800,4,true,true,true,"1.0.0.0",true,true,1,0,29,false,true,1,true,false,[],"icons/",[],true,"u8se8qxh4gob","fonts/",[],"high-performance"]}

diff --git a/flying-daz/offline.js b/flying-daz/offline.js
@@ -1,1 +1,1 @@
-{"version":1546772417654,"fileList":["c2runtime.js","data.js","start.js","style.css","offlineClient.js","images/shared-0-sheet0.png","images/shared-0-sheet1.png","images/shared-0-sheet2.png","images/tiledbackground-sheet0.png","images/tiledbackground2-sheet0.png","images/tiledbackground3-sheet0.png","images/tiledbackground4-sheet0.png","icons/icon-16.png","icons/icon-32.png","icons/icon-114.png","icons/icon-128.png","icons/icon-256.png","icons/loading-logo.png","register-sw.js"]}
+{"version":1546768788926,"fileList":["c2runtime.js","data.js","start.js","style.css","offlineClient.js","images/shared-0-sheet0.png","images/shared-0-sheet1.png","images/shared-0-sheet2.png","images/tiledbackground-sheet0.png","images/tiledbackground2-sheet0.png","images/tiledbackground3-sheet0.png","images/tiledbackground4-sheet0.png","icons/icon-16.png","icons/icon-32.png","icons/icon-114.png","icons/icon-128.png","icons/icon-256.png","icons/loading-logo.png","register-sw.js"]}

diff --git a/flying-daz/c2runtime.js b/flying-daz/c2runtime.js
@@ -30580,7 +30580,6 @@ cr.getObjectRefTable = function () {
 		cr.plugins_.Browser.prototype.acts.GoToURL,
 		cr.plugins_.TextBox.prototype.cnds.OnTextChanged,
 		cr.plugins_.Sprite.prototype.acts.SetVisible,
-		cr.plugins_.Sprite.prototype.acts.SetPos,
 		cr.system_object.prototype.acts.Wait
 	];
 };
